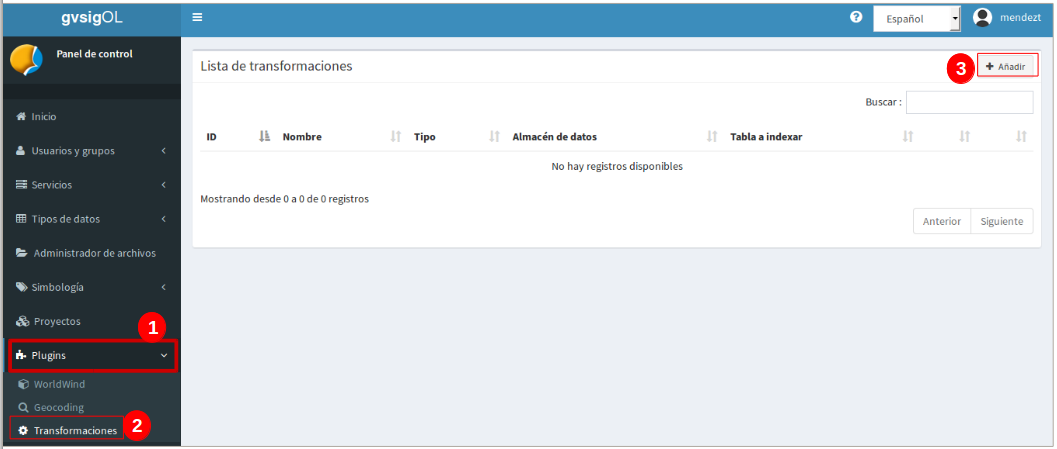
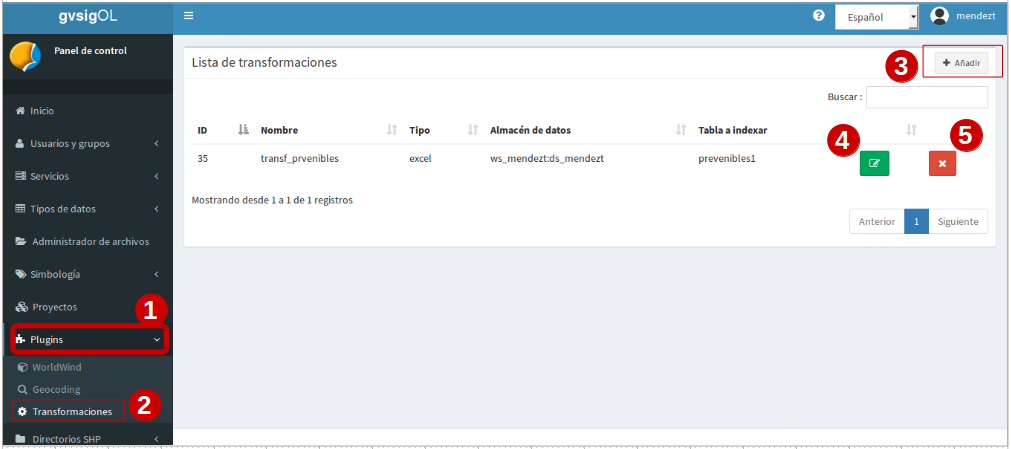
etl3
git-svn-id: https://devel.scolab.eu/gvsig-online/gvsigonline_v2/trunk@3540 216424d3-d1a8-4ca4-951f-a609719bba38

diff --git a/docs/web/source/plugins/es/etl.rst b/docs/web/source/plugins/es/etl.rst
@@ -38,7 +38,7 @@ Algunos requisitos mínimos se deben cumplir para que el proceso de transformaci
 
 4.Pasos para transformar
 ~~~~~~~~~~~~~~~~~~~~~~~~
-4.1. **Crear capa vacía**: Se crea la capa vacía en el sistema y se añaden tantos campos como tenga el fichero plano o los que se quiera volcar información.
+**4.1. Crear capa vacía**: Se crea la capa vacía en el sistema y se añaden tantos campos como tenga el fichero plano o los que se quiera volcar información.
 
 .. note::
    - Cuando se crea una capa vacía en el sistema se añaden por defecto los campos: 'gid' y 'wkb_geometry', el primero es interno para hacer un identificador único en la tabla de Base de Datos (BD), éste no será usado en la transformación, el segundo es el campo donde se registrará la geometría de cada elemento y será el que se use para volcar las coordenadas.
@@ -47,7 +47,7 @@ Algunos requisitos mínimos se deben cumplir para que el proceso de transformaci
 
 Una vez se haya publicado la capa vacía sin registros, se procede a crear la plantilla de transformación para fijar la configuración entre la capa vacía y el fichero plano.
 
-4.2. **Crear plantilla de transformación (formato .xlsx)** Para acceder a esta funcionalidad se debe ingresar en el panel de control:
+**4.2. Crear plantilla de transformación (formato .xlsx)** Para acceder a esta funcionalidad se debe ingresar en el panel de control:
 
 
 .. image:: ../_static/images/etl1.png
@@ -70,8 +70,15 @@ Una vez se haya publicado la capa vacía sin registros, se procede a crear la pl
    * - 3
      - Clic sobre 'añadir'
      - Saldrá una nueva vista para configurar la plantilla de transformación
+   * - 4
+     - Botón color verde 'actualizar transformación'
+     - Permite editar y actualizar nuevos cambios en la transformación definida previamente.
+   * - 5
+     - Botón color rojo 'borrar transformación'
+     - Elimina la transformación de la lista
+     
 
-4.3 **Configuración de plantilla de transformación (formato xlsx)**: EL primer paso es añadir un nombre a la transformación y seleccionar cuál será la capa en el BD donde se volcarań los datos. 
+**4.3 Configuración de plantilla de transformación (formato xlsx)**: EL primer paso es añadir un nombre a la transformación y seleccionar cuál será la capa en el BD donde se volcarań los datos. 
 
 .. image:: ../_static/images/etl2.png
    :align: center
@@ -104,8 +111,9 @@ Una vez se haya publicado la capa vacía sin registros, se procede a crear la pl
    :align: center
 
 .. list-table:: Configuración para ficheros planos (formato xlxs) 
-   :widths: 2 10 20
+   :widths: 2 5 10
    :header-rows: 1
+   :align: left
 
    * - Pasos
      - Selección
@@ -159,8 +167,29 @@ Una vez se haya publicado la capa vacía sin registros, se procede a crear la pl
      - Guardar
      - Se guarda los cambios cuando se finalice de añadir todas las reglas. 
      
-     
-     
+ **4.3.1 Opciones para rellenar (sección 5.2.a)**: Estas son las distintas formas que pueden elegirse para aplicar el volcado de los datos. A continuación se detalla cada una de las opciones disponibles para generar las reglas.
+
+.. image:: ../_static/images/etl3_1.png
+   :align: center
+
+
+.. list-table:: Opción: Valor fijo 
+   :widths: 2 10 
+   :header-rows: 1
+   :align: left
+
+   * - selección
+     - Acción
+   * - 1
+     - Es el campo de la tabla vacía que se rellenará
+   * - 2
+     - Opción: 'Valor fijo'
+   * - 3
+     - Escribir manualmente el valor que será fijado en todos los registros del campo seleccionado (1)
+   * - 4
+     - 'cancelar' para volver atrás ó 'aceptar' para guardar la regla        
+    
+
 
 
 
